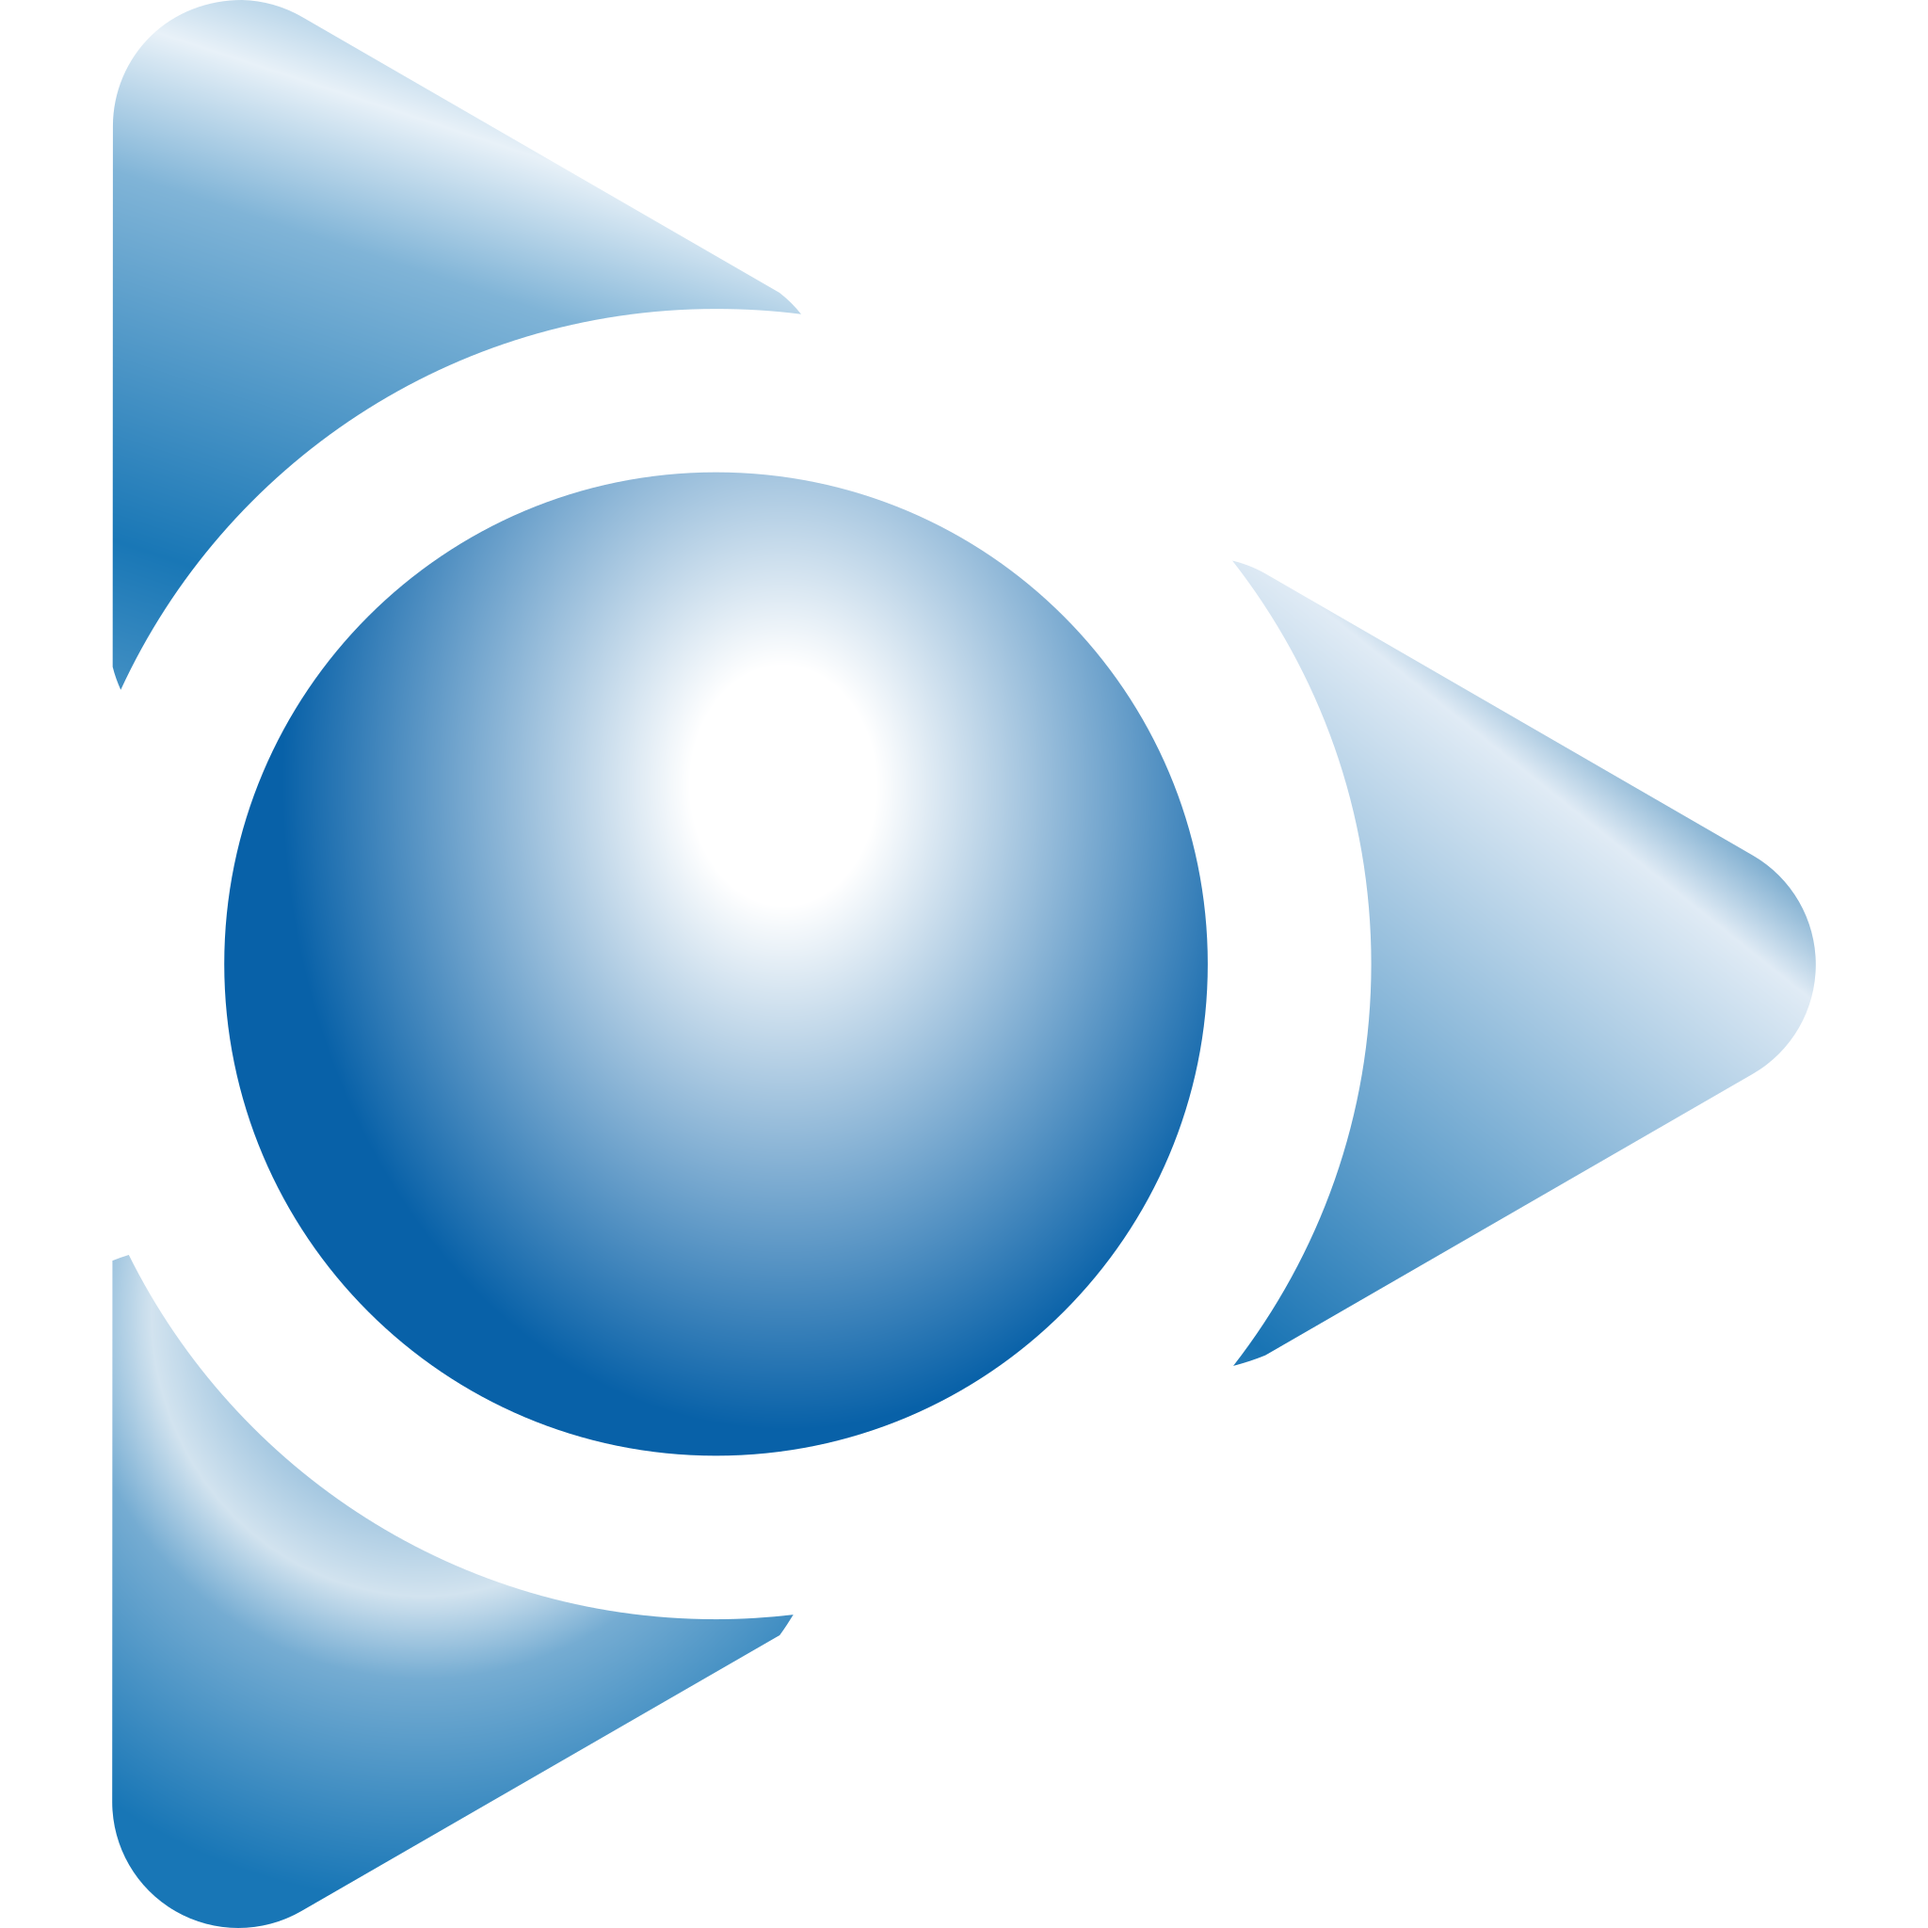
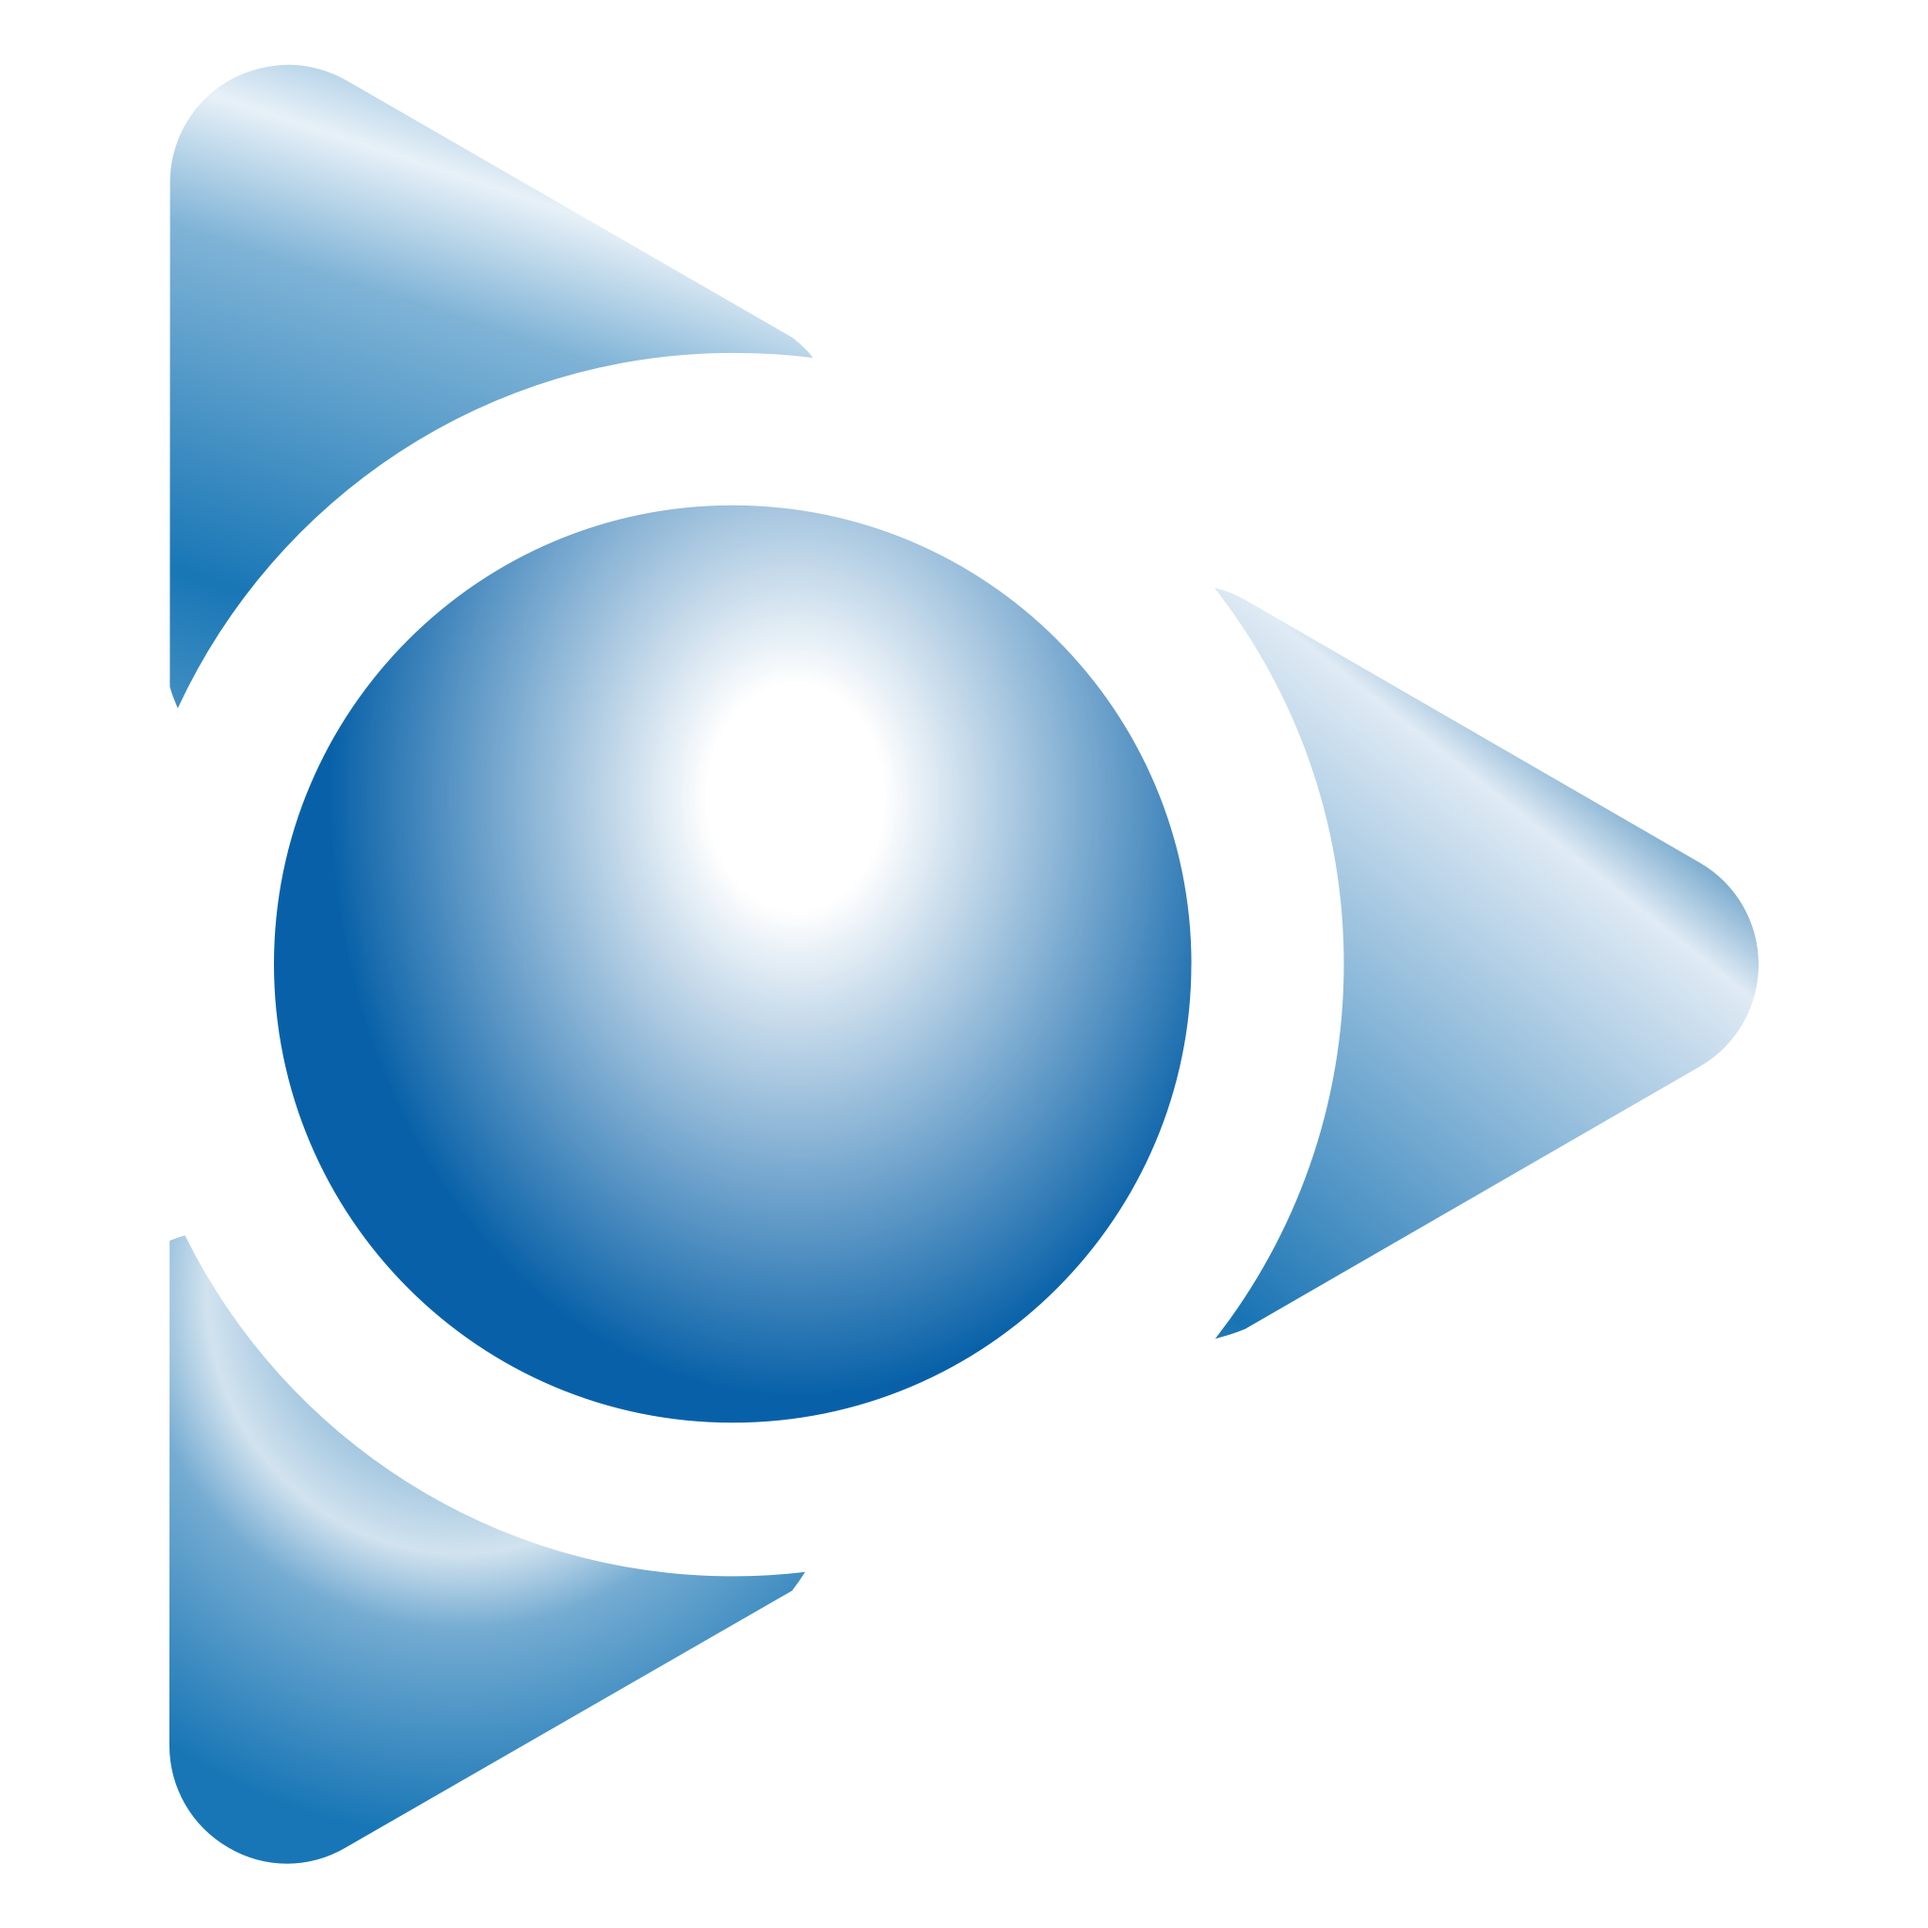
Tweak and further optimize `aol-explorer.svg`
Also, regenerate the PNG images based on the SVG.

diff --git a/src/archive/README.md b/src/archive/README.md
@@ -73,6 +73,21 @@
     </tbody>
 </table>
 
+### AOL Explorer
+
+<table>
+    <thead>
+        <tr>
+            <th><a href="https://en.wikipedia.org/wiki/AOL_Explorer">AOL Explorer</a> <a href="#note"><code>*</code></a></th>
+        </tr>
+    </thead>
+    <tbody>
+        <tr height=160>
+            <td><a href="aol-explorer"><img width=140 src="aol-explorer/aol-explorer_256x256.png" alt="AOL Explorer browser logo"></a></td>
+        </tr>
+    </tbody>
+</table>
+
 ### Apollo
 
 <table>

diff --git a/CHANGELOG.md b/CHANGELOG.md
@@ -1,3 +1,14 @@
+## HEAD
+
+#### New features
+
+* Add `AOL Explorer` logo.
+
+#### Bug fixes / Improvements
+
+* Tweak and further optimize `aol-explorer.svg`.
+
+
 ## 42.0.0 (April 22, 2017)
 
 #### Breaking changes
